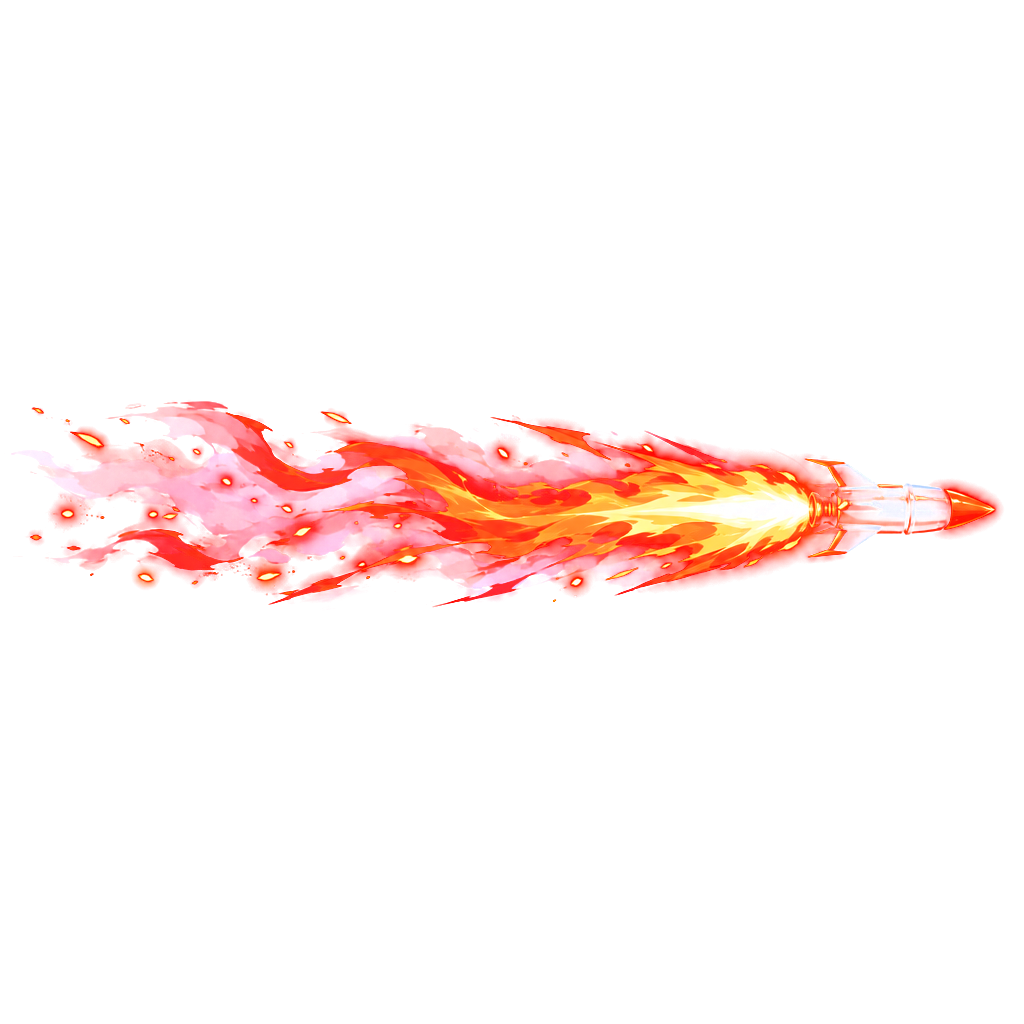
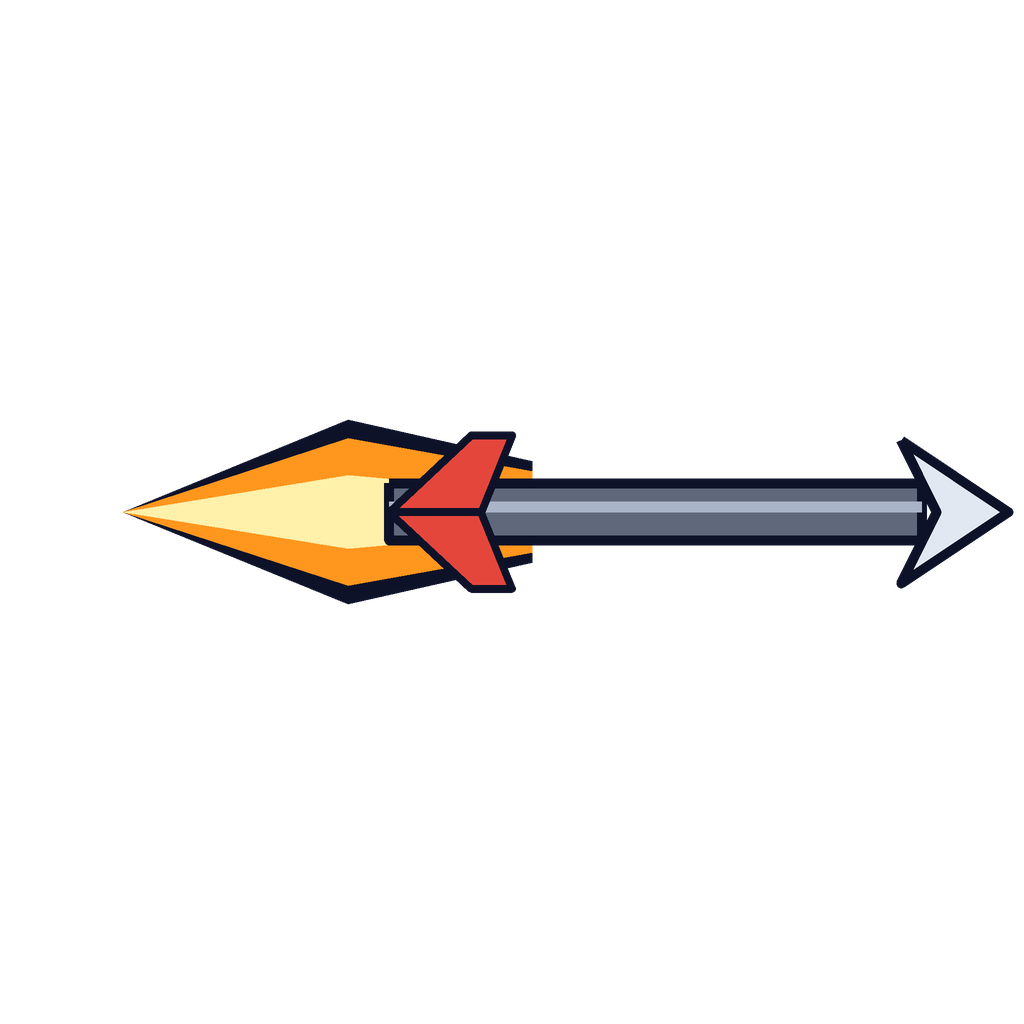
fix(vfx): axe swing faces its target, smaller gravity sphere, flat arrow and bolt with a trail behind, victory music
Heavy axe TARGET swing turns toward the hit enemy (face_target). Gravity well orb 2.8 -> 2.0, shuriken 1.25 -> 1.5.
Long bow arrow and heavy crossbow bolt redrawn flat with one streak behind (tools/art/make_arrows.py); atlas rebaked
(also brings the flask, grenade, cannonball and bullet cells in line with their sources).
Victory screen: chest reward icons 128 px, calm menu music after the jingle.

Claude-Session: https://claude.ai/code/session_01LtYADxbd84PVKV1bvjrnNH

Changed region(s): [[0.0312, 0.375, 1.0, 0.5938]]

diff --git a/tools/art/make_arrows.py b/tools/art/make_arrows.py
@@ -1,0 +1,76 @@
+"""Draws the long bow arrow and the heavy crossbow bolt as flat cartoon shots: a solid shaft and head with a dark outline
+and ONE tapered streak BEHIND them (nothing floats around the shot: no sparks, no wisps).
+Writes the 1024 px cells 10_arrow (long bow) and 04_missile (heavy crossbow) that tools/art/bake_map.gd packs into
+assets/sprites/projectiles.png. The art points right, the head touches the right edge, the trail fades out on the left.
+Usage: python tools/art/make_arrows.py, then powershell tools/bake_sprites.ps1"""
+from pathlib import Path
+
+from PIL import Image, ImageDraw
+
+ROOT = Path(__file__).resolve().parents[2]
+OUTS = [ROOT / "art_source/ai/projectiles", ROOT / "assets_src/drawn/projectiles"]
+SIZE = 1024
+SUPER = 2
+OUTLINE = (14, 18, 40, 255)
+
+
+def px(value: float) -> float:
+    return value * SIZE * SUPER
+
+
+def poly(draw: ImageDraw.ImageDraw, points: list, fill: tuple, outline_width: float = 0.0) -> None:
+    pts = [(px(x), px(y)) for x, y in points]
+    draw.polygon(pts, fill=fill)
+    if outline_width > 0.0:
+        draw.line(pts + [pts[0]], fill=OUTLINE, width=int(px(outline_width)), joint="curve")
+
+
+def streak(draw: ImageDraw.ImageDraw, tail_x: float, head_x: float, half: float, body: tuple, core: tuple) -> None:
+    """Three nested tapered strokes: dark outline, color body, bright core. Widest at the head end, a point at the tail."""
+    cy = 0.5
+    for grow, color in ((1.0, OUTLINE), (0.8, body), (0.4, core)):
+        h = half * grow
+        poly(draw, [(tail_x, cy), (tail_x + (head_x - tail_x) * 0.55, cy - h), (head_x, cy - h * 0.55),
+                    (head_x, cy + h * 0.55), (tail_x + (head_x - tail_x) * 0.55, cy + h)], color)
+
+
+def arrow(body: tuple, core: tuple, feather: tuple) -> Image.Image:
+    image = Image.new("RGBA", (SIZE * SUPER, SIZE * SUPER), (0, 0, 0, 0))
+    draw = ImageDraw.Draw(image)
+    streak(draw, 0.04, 0.50, 0.075, body, core)
+    # shaft
+    poly(draw, [(0.30, 0.488), (0.88, 0.488), (0.88, 0.512), (0.30, 0.512)], (176, 120, 56, 255), 0.008)
+    # fletching: two swept feathers
+    for sign in (-1, 1):
+        poly(draw, [(0.30, 0.5), (0.43, 0.5 + sign * 0.07), (0.455, 0.5 + sign * 0.07), (0.40, 0.5)], feather, 0.007)
+    # steel head
+    poly(draw, [(0.86, 0.455), (0.985, 0.5), (0.86, 0.545), (0.895, 0.5)], (214, 224, 236, 255), 0.009)
+    return image.resize((SIZE, SIZE), Image.LANCZOS)
+
+
+def bolt(body: tuple, core: tuple) -> Image.Image:
+    """The heavy bolt: a thick dark-steel shaft, a broad head, a short orange streak."""
+    image = Image.new("RGBA", (SIZE * SUPER, SIZE * SUPER), (0, 0, 0, 0))
+    draw = ImageDraw.Draw(image)
+    streak(draw, 0.12, 0.52, 0.09, body, core)
+    poly(draw, [(0.38, 0.472), (0.90, 0.472), (0.90, 0.528), (0.38, 0.528)], (96, 104, 124, 255), 0.01)
+    poly(draw, [(0.38, 0.49), (0.90, 0.49), (0.90, 0.5), (0.38, 0.5)], (170, 180, 200, 255))
+    for sign in (-1, 1):
+        poly(draw, [(0.38, 0.5), (0.46, 0.5 + sign * 0.075), (0.50, 0.5 + sign * 0.075), (0.47, 0.5)], (228, 70, 60, 255), 0.008)
+    poly(draw, [(0.88, 0.43), (0.985, 0.5), (0.88, 0.57), (0.915, 0.5)], (226, 232, 242, 255), 0.01)
+    return image.resize((SIZE, SIZE), Image.LANCZOS)
+
+
+def main() -> None:
+    cells = {
+        "10_arrow": arrow((120, 205, 255, 255), (245, 252, 255, 255), (245, 245, 250, 255)),
+        "04_missile": bolt((255, 150, 30, 255), (255, 240, 170, 255)),
+    }
+    for name, cell in cells.items():
+        for out in OUTS:
+            cell.save(out / (name + ".png"))
+        print("cell", name)
+
+
+if __name__ == "__main__":
+    main()
